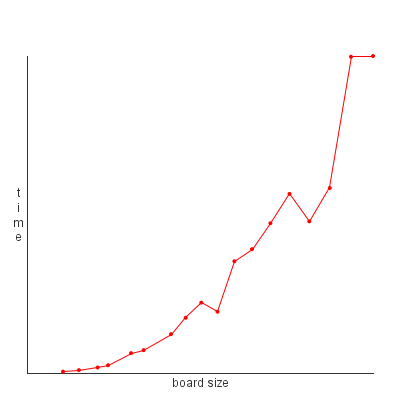
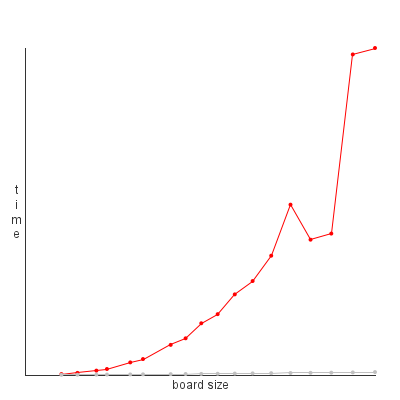
Finished Project

diff --git a/src/Flood.java b/src/Flood.java
@@ -3,7 +3,6 @@
 import java.lang.reflect.Array;
 import java.util.*;
 
-
 public class Flood {
 
     // Students implement this flood function.
@@ -20,7 +19,7 @@ public class Flood {
             {
                 if (!flooded_list.contains(tile))
                 {
-                    if (Board.get(tile).getColor().equals(color))
+                    if (tiles[tile.getY()][tile.getX()].getColor().equals(color))
                     {
                         flooded_list.add(tile);
                     }
@@ -34,7 +33,37 @@ public class Flood {
                              LinkedList<Coord> flooded_list,
                              Tile[][] tiles,
                              Integer board_size) {
-        // Hashmaps instead of contains()!!!
+
+        //List of Visited Coordinates
+        boolean[][] visited = new boolean[board_size][board_size];
+
+        //Queue of newly added tiles
+        Queue<Coord> queue = new LinkedList<>();
+
+        for (Coord coord : flooded_list)
+        {
+            queue.offer(coord);
+            visited[coord.getX()][coord.getY()] = true;
+        }
+
+        while (!queue.isEmpty())
+        {
+            Coord current = queue.poll();
+            List<Coord> neighbors = current.neighbors(board_size);
+
+            for (Coord neighbor : neighbors)
+            {
+                int x = neighbor.getX();
+                int y = neighbor.getY();
+
+                if (!visited[x][y] && tiles[x][y].getColor().equals(color))
+                {
+                    flooded_list.add(neighbor);
+                    queue.offer(neighbor);
+                    visited[x][y] = true;
+                }
+            }
+        }
     }
 
 }

diff --git a/src/Game.java b/src/Game.java
@@ -163,7 +163,7 @@ public class Game {
     private void batchTest() {
         List<List<Double>> allTimings = new LinkedList<>();
         List<Integer> numTiles = new LinkedList<>();
-        for (int k = 0; k != 1; ++k) {
+        for (int k = 0; k != 2; ++k) {
             String name = "flood" + (k == 0 ? "" : k);
             System.out.println("running with " + name + " as the flood function");
             List<Double> timings = new LinkedList<>();

diff --git a/src/Board.java b/src/Board.java
@@ -18,7 +18,7 @@ import java.lang.reflect.Method;
 public class Board {
     LinkedList<Coord> flooded;
     static Tile[][] tiles;
-    int size;
+    static int size;
 
     /**
      * Constructs a square game board of the given size, initializes the list of
@@ -87,7 +87,7 @@ public class Board {
     /**
      * Returns the size of this board.
      */
-    public int getSize() {
+    public static int getSize() {
         return size;
     }
 

diff --git a/README.md b/README.md
@@ -25,4 +25,7 @@ The time complexity is not the best it can be. The loop will have to recheck the
 Instead of looping through every single value in the list, I'll try to make it so the function will loop through the newly added coordinates.
 Maybe by using HashMaps or creating a list of the new coordinates after they've been added, and only checking those coordinates.
 
+Question 5:
+I think the time complexity of my flood1 function is O(n).
+
 Revision: Fall 2023
